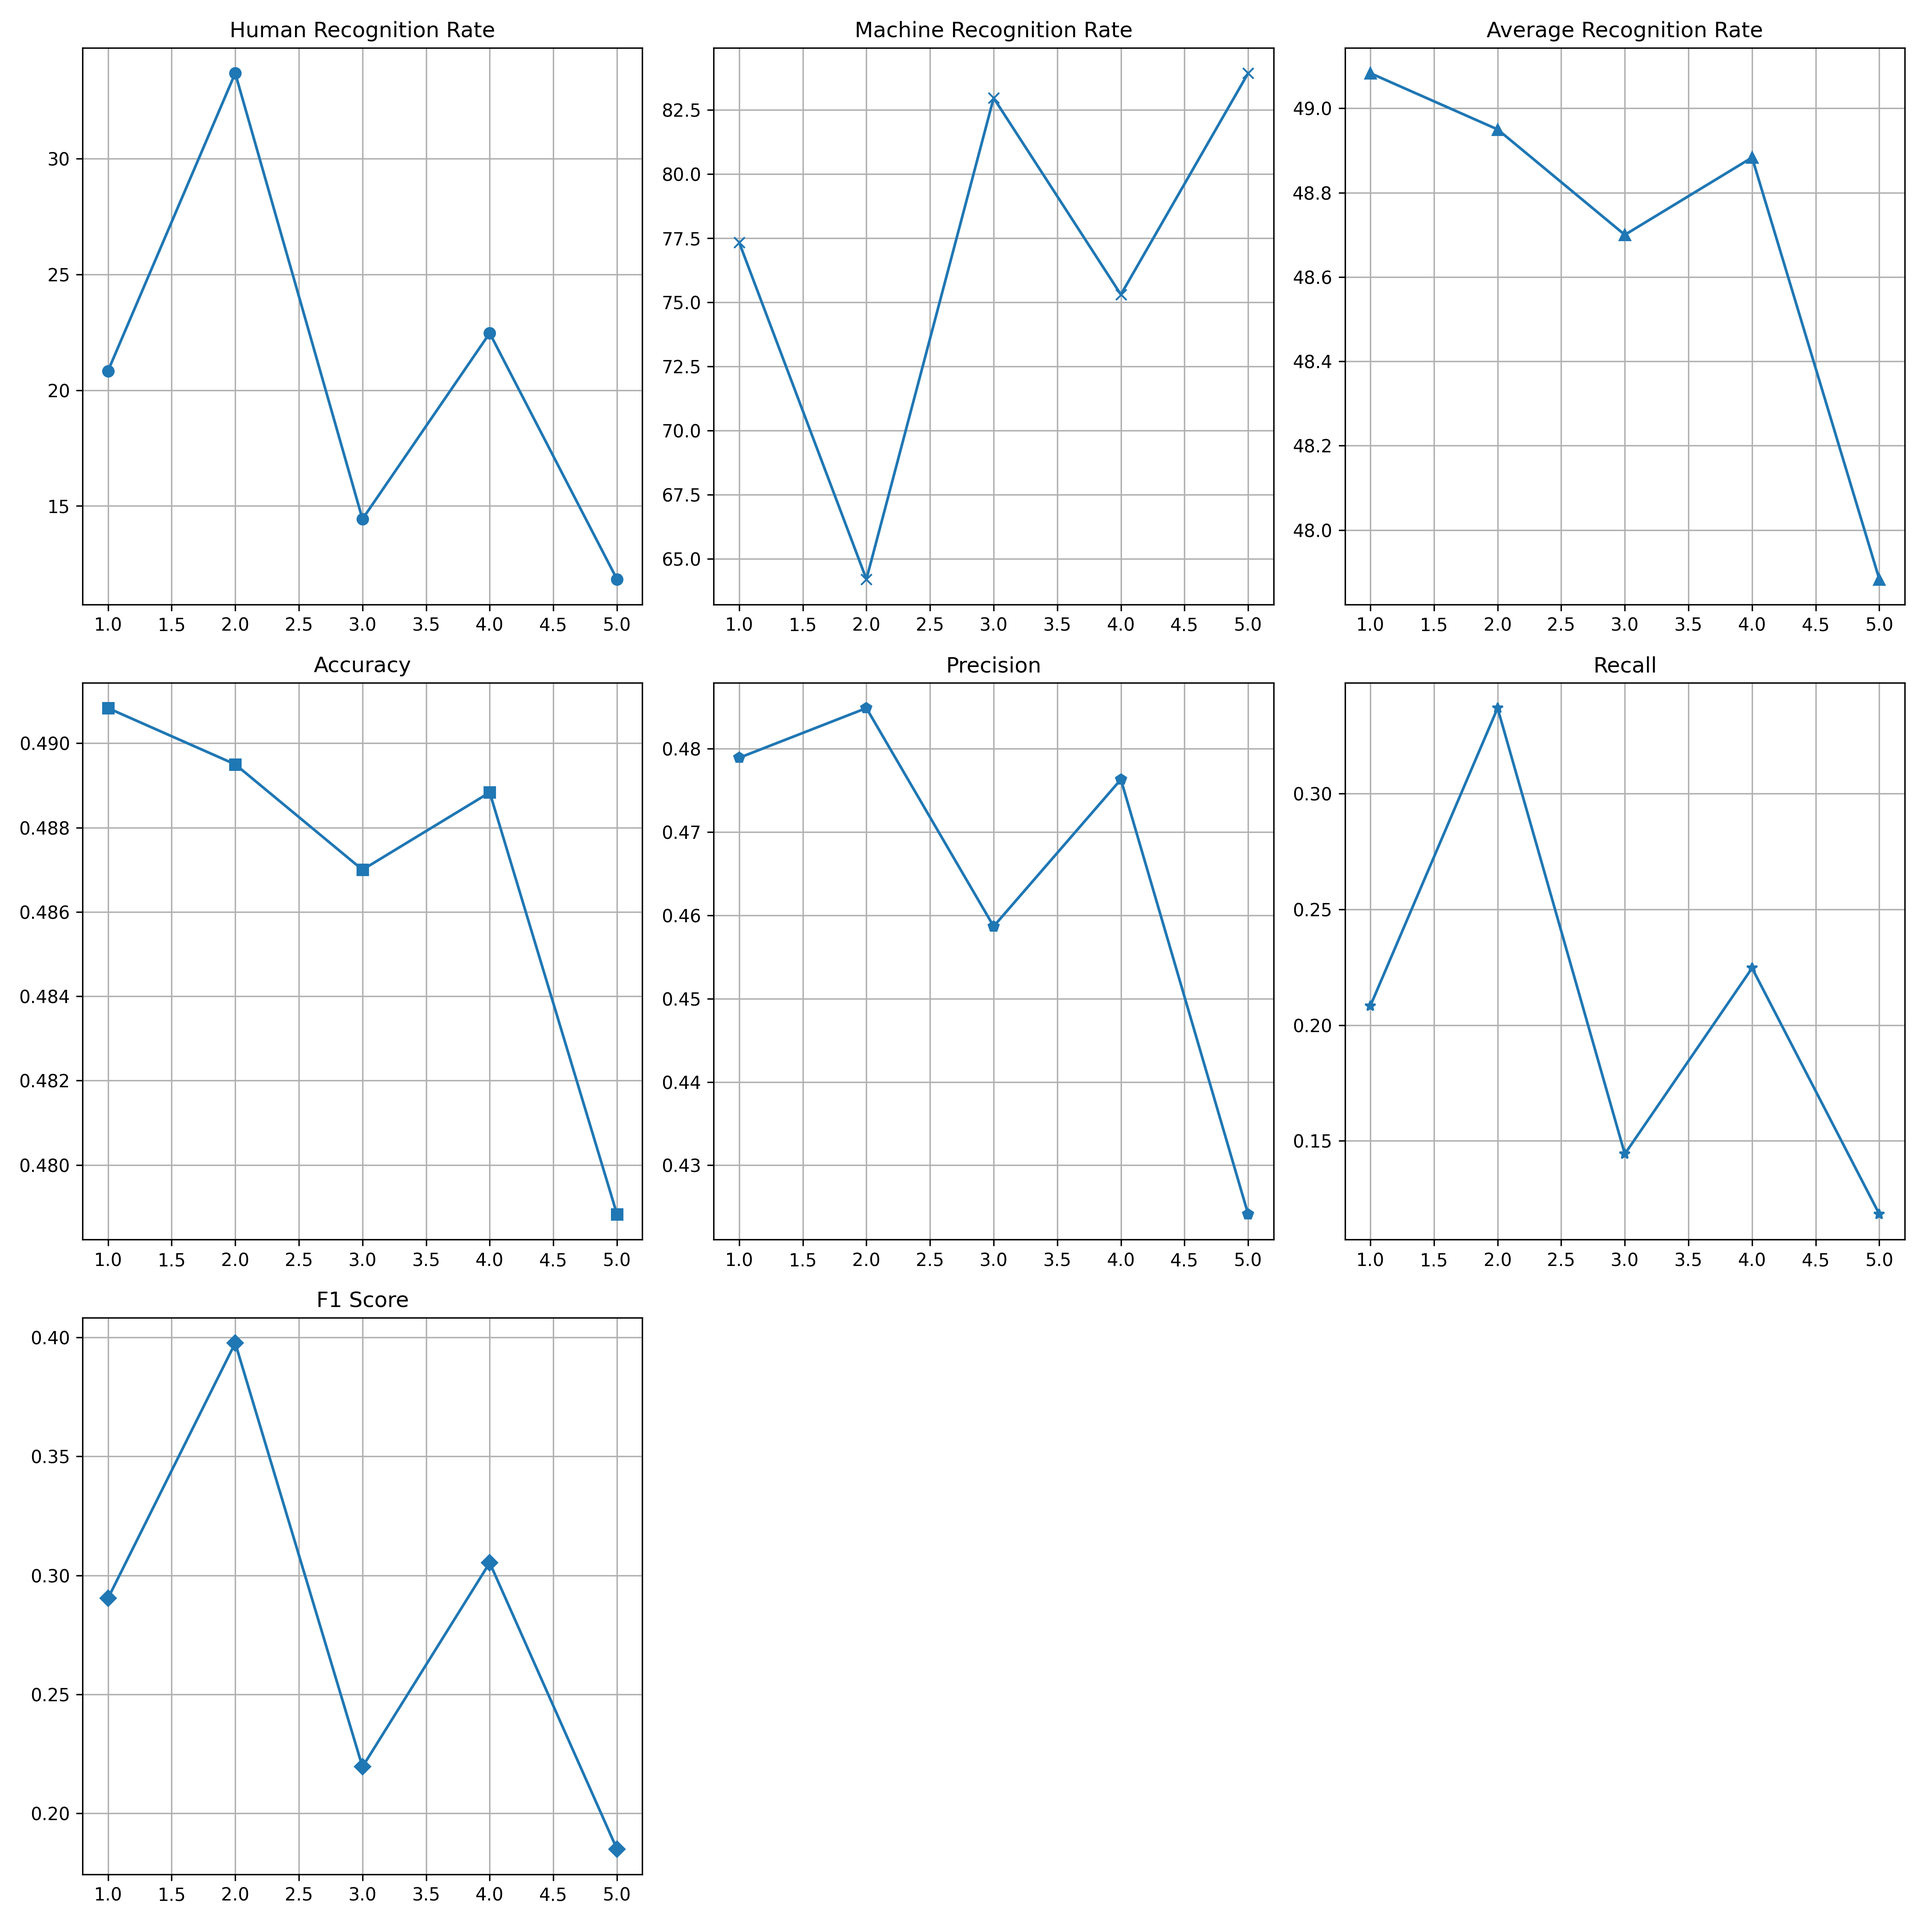
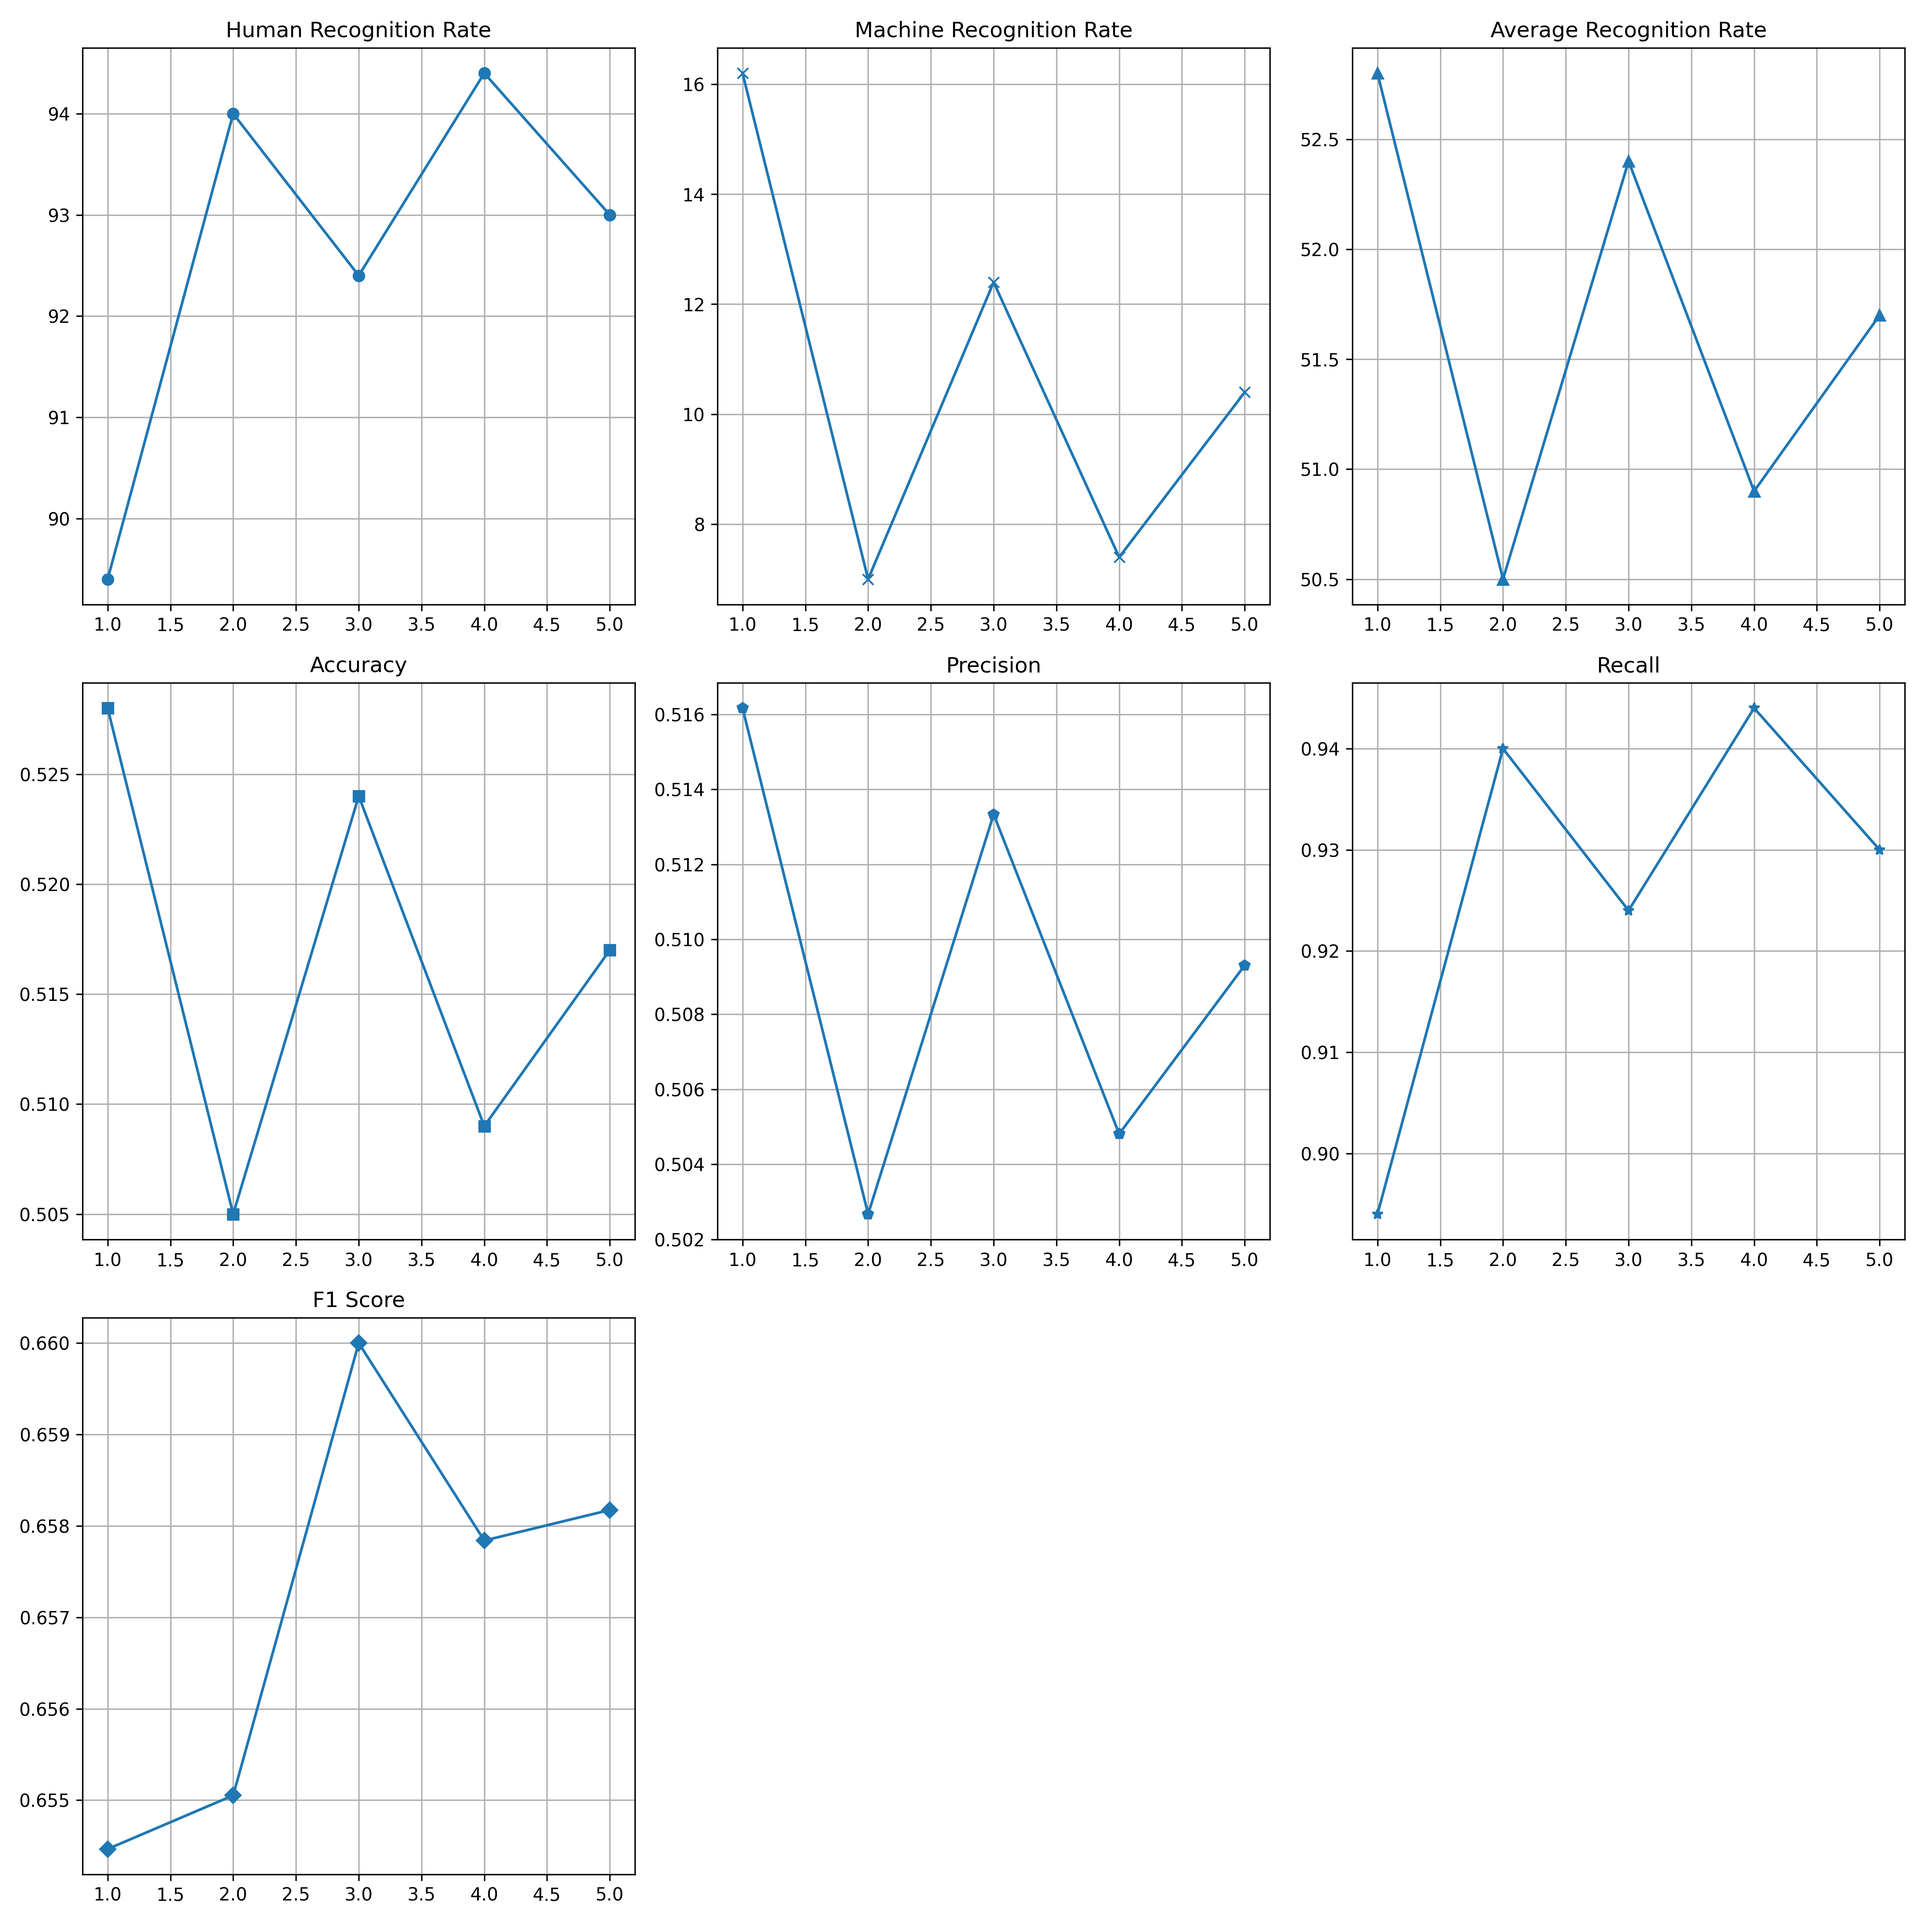
update eval

diff --git a/test_knn.py b/test_knn.py
@@ -100,10 +100,18 @@ def test(opt):
         test_database = load_M4(opt.test_dataset_path)[opt.test_dataset_name]
     elif opt.mode=='162DeepFake':
         database=load_deepfake(opt.database_path)[opt.database_name] # deepfake train
+        database = [(text, '0' if label=='1' else '1', src, ids) for text, label, src, ids in database]
         test_database = load_M4(opt.test_dataset_path)[opt.test_dataset_name]
     elif opt.mode=='162Turing':
         database=load_Turing(opt.database_path)[opt.database_name]
+        # Turing has 1 as human, 0 as machine, so we need to flip the label
+        database = [(text, '0' if label=='1' else '1', src, ids) for text, label, src, ids in database]
         test_database = load_M4(opt.test_dataset_path)[opt.test_dataset_name]
+
+        print("==================")
+        print("TuringBench samples:", database[0])
+        print("CS162 samples:", test_database[0])
+        print("==================")
         
     # database = load_deepfake('/home/heyongxin/LLM_detect_data/Deepfake_dataset/cross_domains_cross_models')['train']
     passage_dataset = PassagesDataset(database,mode=opt.mode,need_ids=True)
